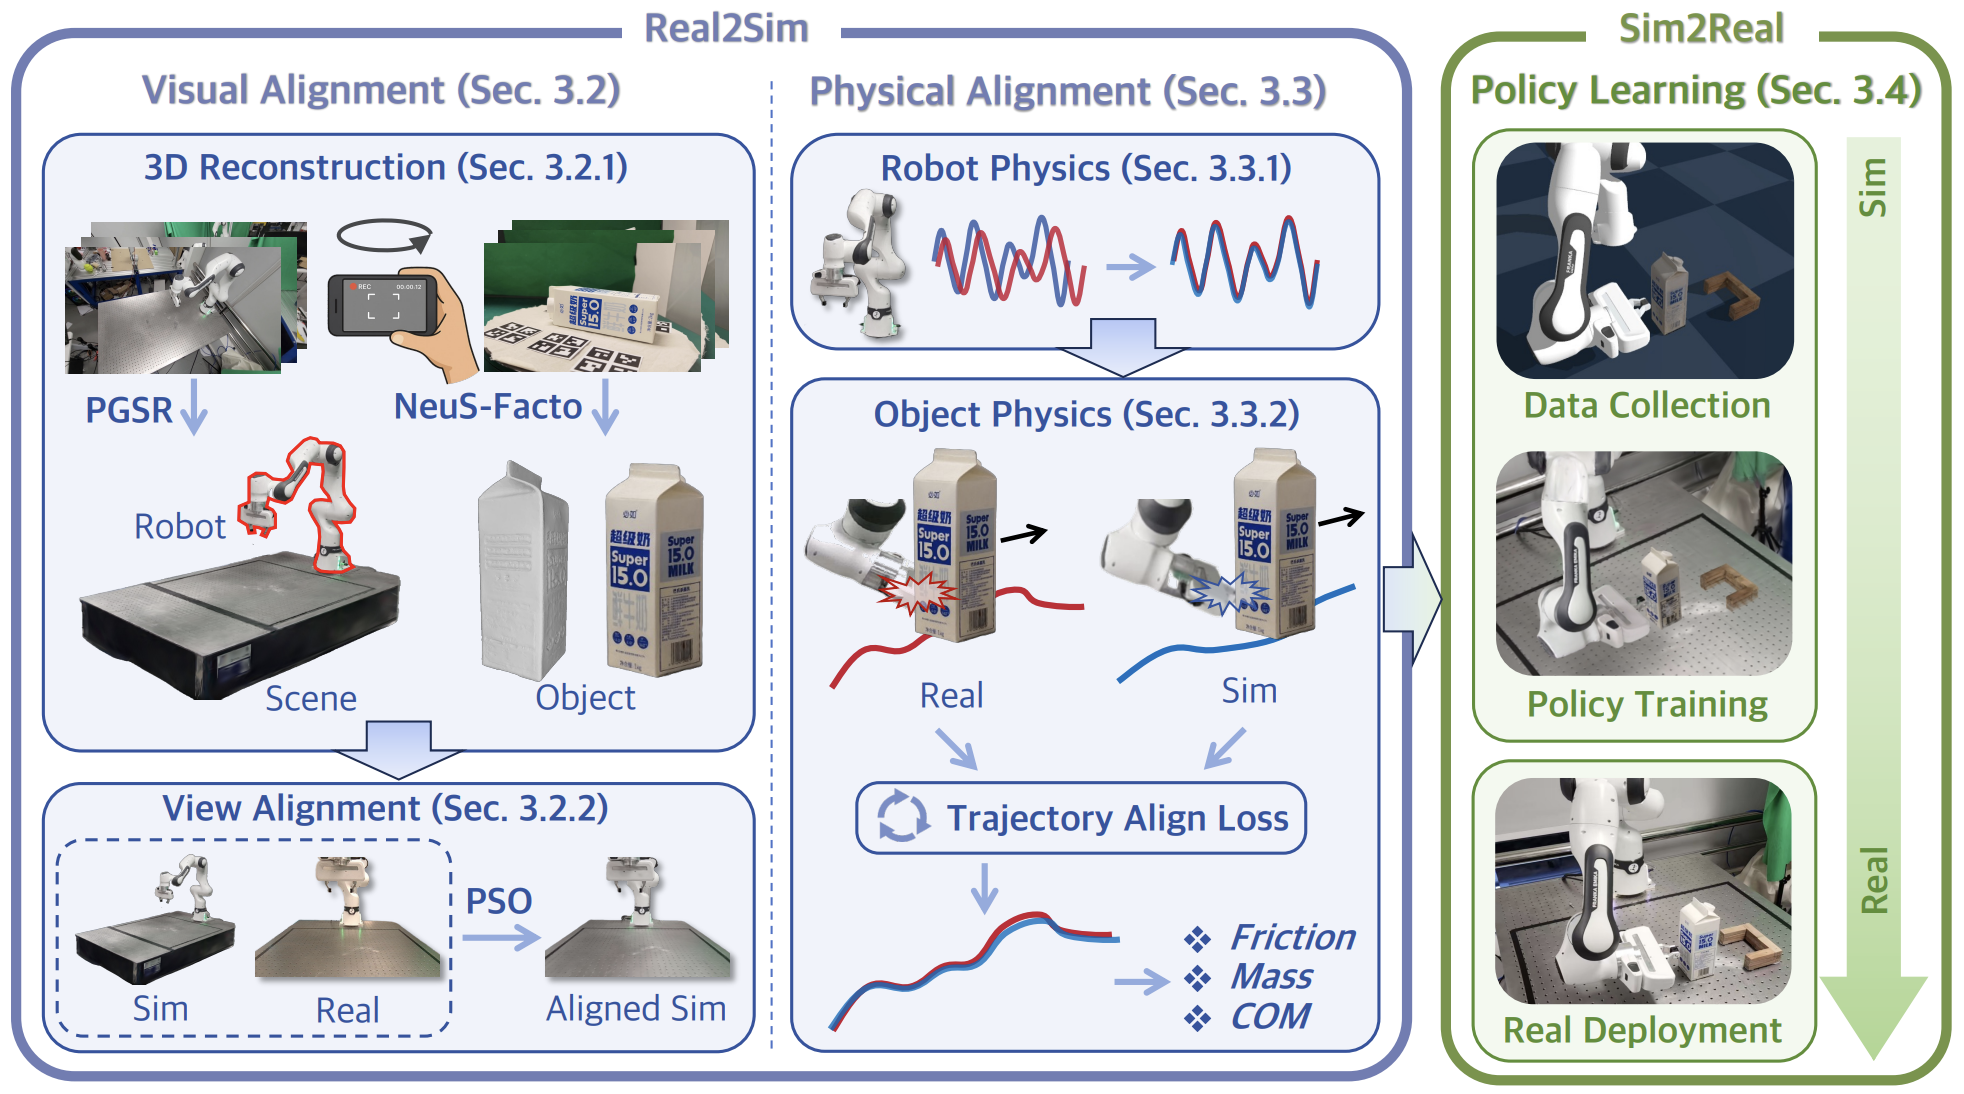
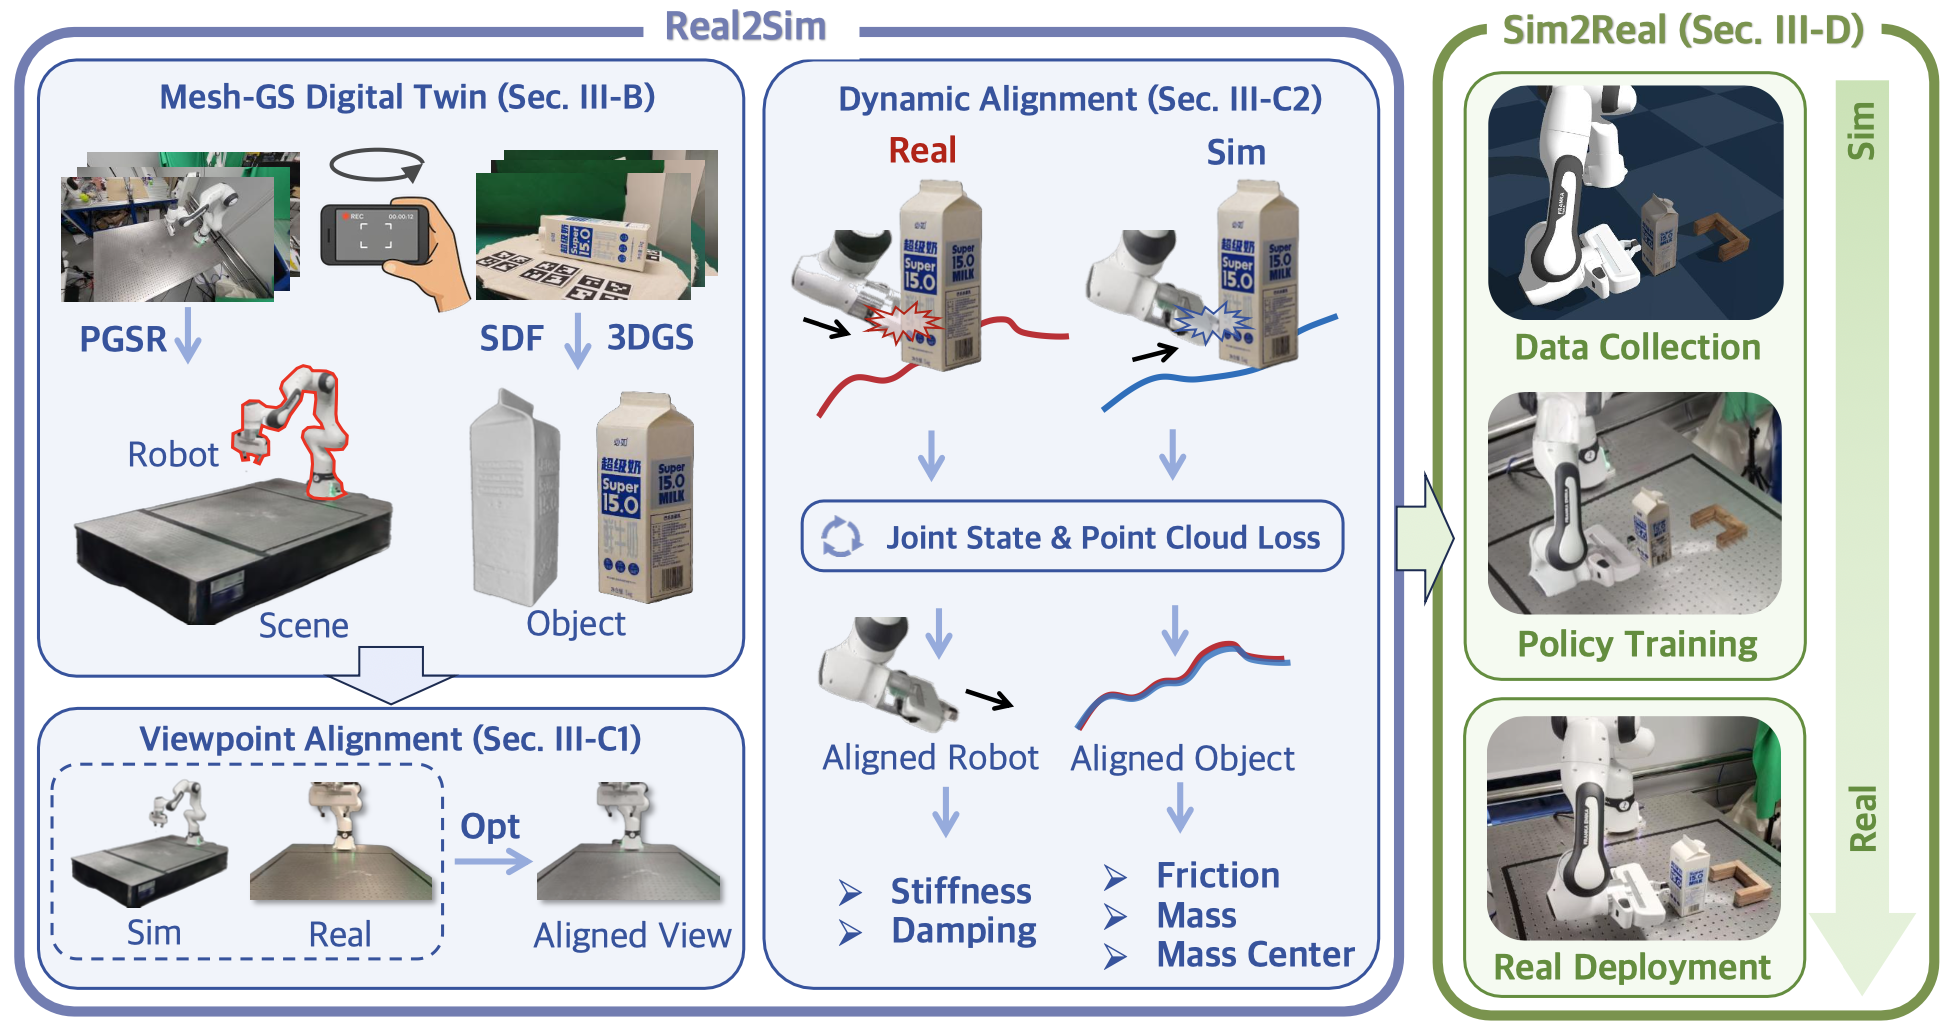
Update

diff --git a/index.html b/index.html
@@ -77,6 +77,32 @@
           </tr>
         </tbody></table>
         <table style="width:100%;border:0px;border-spacing:0px;border-collapse:separate;margin-right:auto;margin-left:auto;"><tbody>
+
+        <tr>
+          <td style="padding:20px;width:30%;max-width:30%" align="center">
+            <img style="width:100%;max-width:100%" src='images/TwinAligner_2.png' alt="dise">
+          </td>
+          <td width="75%" valign="center">
+            <papertitle>TwinAligner: Visual-Dynamic Alignment Empowers Physics-aware Real2Sim2Real for Robotic Manipulation</papertitle>
+            <br>
+            Hongwei Fan*, Hang Dai*, Jiyao Zhang, Jinzhou Li, Qiyang Yan, <strong>Yujie Zhao</strong>, Mingju Gao, Jinghang Wu, Hao Tang, Hao Dong
+            <br>
+            <em>In submission</em>, 2025
+            <br> 
+            <!--
+            <a href="">[Website]</a> 
+            <a href="">[arxiv]</a> 
+            <a href="">[Video]</a> 
+            <a href="">[Code]</a>
+            <a href="https://github.com/ZhaoYujie2002/LangSplatV2">
+              <img src="https://img.shields.io/github/stars/ZhaoYujie2002/LangSplatV2?style=social" style="vertical-align: middle;">
+            </a>
+            <br>
+            -->
+            <p>We propose TwinAligner, a novel Real2Sim2Real system addressing both visual and dynamic alignment.</p>
+          </td>
+        </tr>
+          
 	      <tr>
             <!--
             <td style="padding:20px;width:30%;max-width:30%" align="center">
@@ -105,32 +131,6 @@
             </td>
         </tr>
         
-        <tr>
-          <td style="padding:20px;width:30%;max-width:30%" align="center">
-            <img style="width:100%;max-width:100%" src='images/TwinAligner.png' alt="dise">
-          </td>
-          <td width="75%" valign="center">
-            <papertitle>TwinAligner: Visual and Physical Real2Sim2Real All-in-one for Robotic Manipulation</papertitle>
-            <br>
-            Hongwei Fan*, Hang Dai*, Jiyao Zhang, Jinzhou Li, Qiyang Yan, <strong>Yujie Zhao</strong>, Xuanyu Lai, Hao Tang, Hao Dong
-            <br>
-            <em>In submission</em>, 2025
-            <br> 
-            <!--
-            <a href="">[Website]</a> 
-            <a href="">[arxiv]</a> 
-            <a href="">[Video]</a> 
-            <a href="">[Code]</a>
-            <a href="https://github.com/ZhaoYujie2002/LangSplatV2">
-              <img src="https://img.shields.io/github/stars/ZhaoYujie2002/LangSplatV2?style=social" style="vertical-align: middle;">
-            </a>
-            <br>
-            -->
-            <p>We propose TwinAligner, a novel Real2Sim2Real system addressing both visual and physics gaps.</p>
-          </td>
-        </tr>
-        
-
         <tr>
           <td style="padding:20px;width:30%;max-width:30%" align="center">
             <img style="width:100%;max-width:100%" src='images/MobilePoG.png' alt="dise">
@@ -186,6 +186,9 @@
           <td style="padding:20px;width:100%;vertical-align:middle">
             <heading>Honors and Awards</heading>
             <p>
+              <li style="margin: 5px;" >
+                <b>Merit Student </b> at University of Chinese Academy of Sciences, 2023-2024.
+              </li>
               <li style="margin: 5px;" >
                 <b>University Academic Scholarship </b> at University of Chinese Academy of Sciences, 2021-2023.
               </li>
